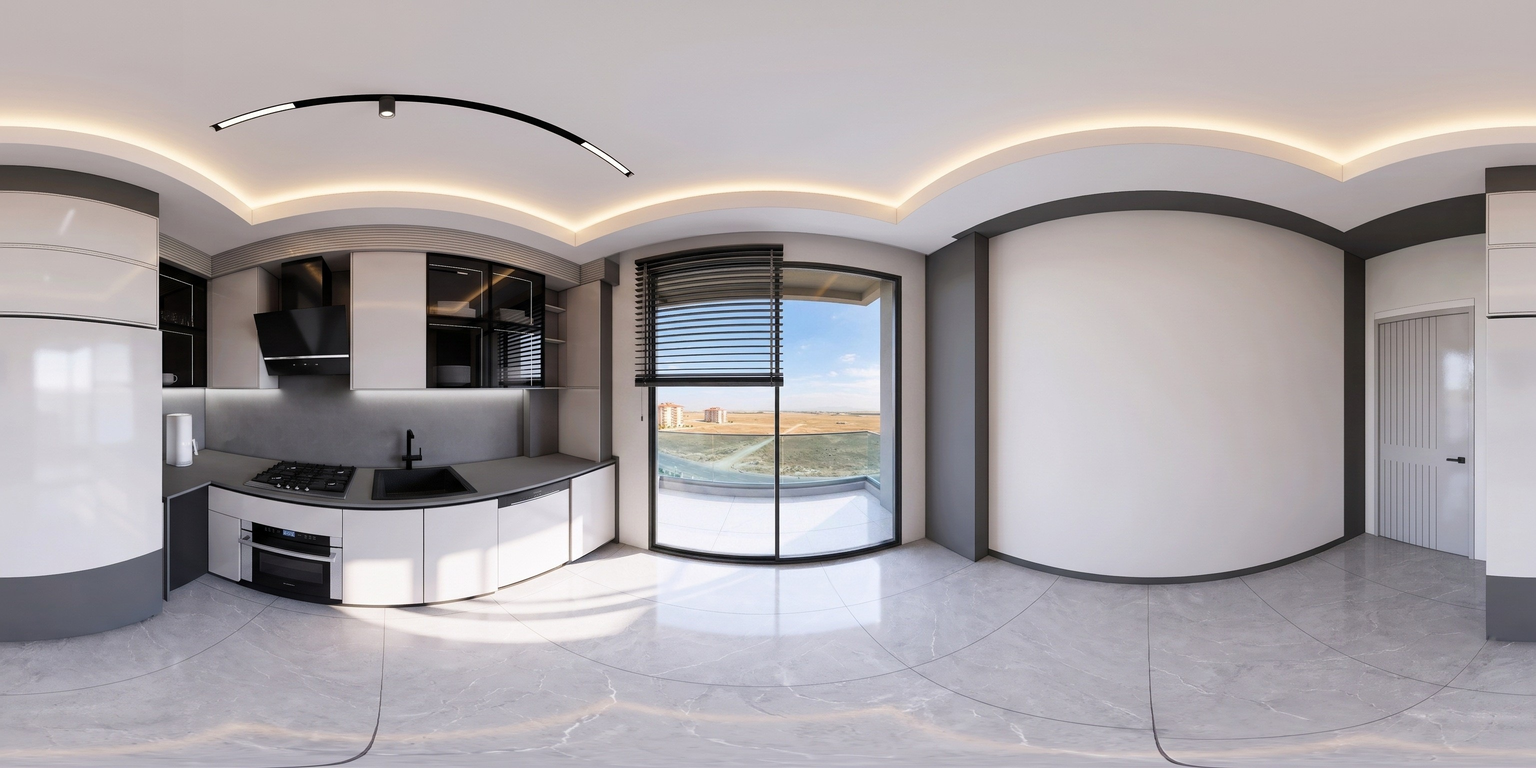
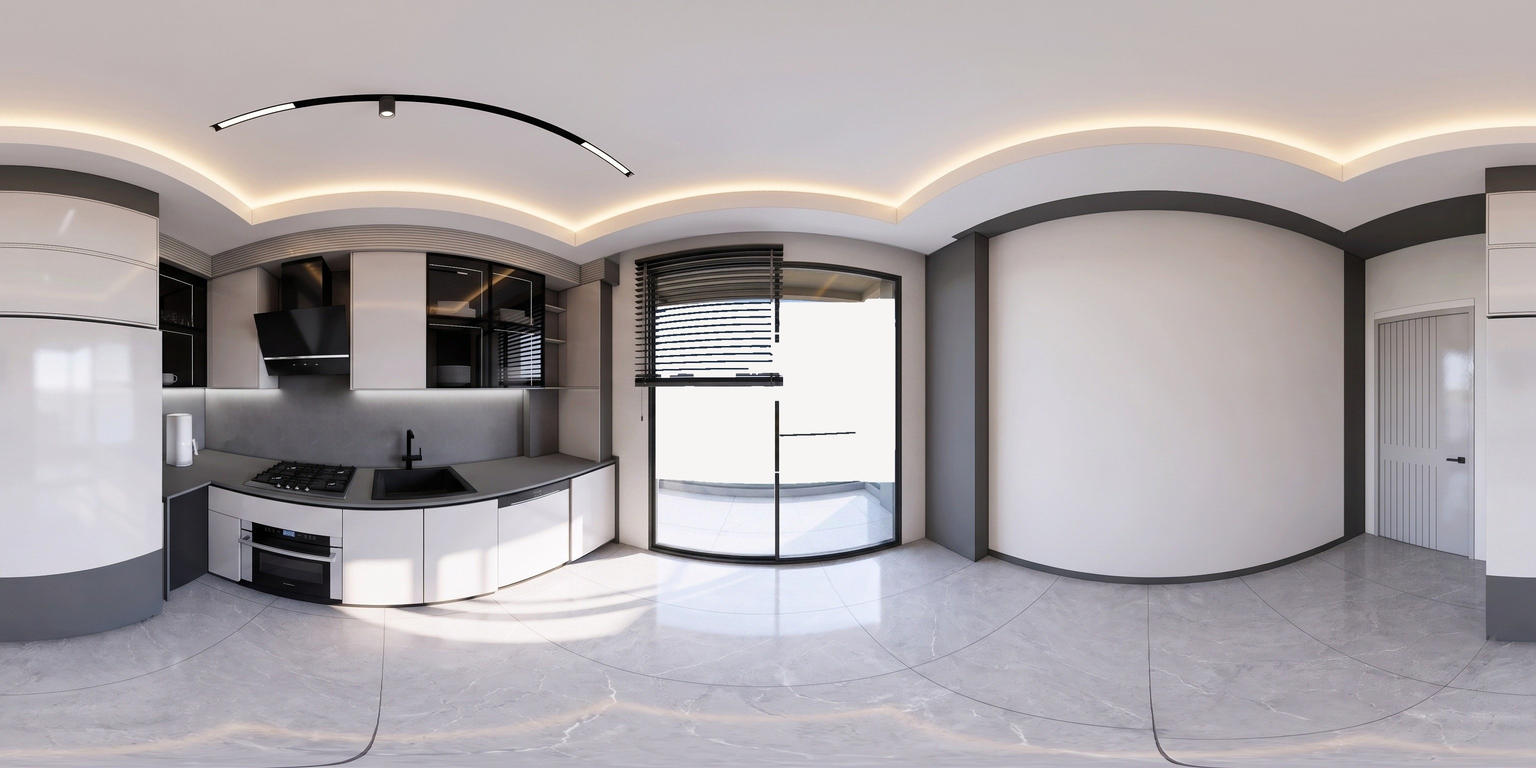
Mutfak pencere kenarlari, kapali balkon masasi, cocuk odasi cami

Changed region(s): [[0.4062, 0.375, 0.5938, 0.6562]]

diff --git a/index.html b/index.html
@@ -3471,7 +3471,7 @@ function gezCiz(lon, sonra) {
     const bd = gez.oda === 'balkon' && gez.daire && !(BALKON_TIPTE[gez.daire.b] || []).includes(gez.daire.no) ? gez.daire : null, yol = bd ? `360/balkon/${bd.b}${bd.k}${bd.no}.jpg` : `360/${gez.set}/${hd360() ? 'hd/' : ''}${gez.oda}.jpg`;
     // pencereler: odanın pencere maskesine dairenin kendi konumundan (kat, cephe) çekilmiş dış manzara bindirilir
     const pd = gez.oda !== 'balkon' && gez.daire && (PENCERE_MASKE[gez.set] || []).includes(gez.oda) ? gez.daire : null;
-    gez.pencere = pd ? { dunya: `360/pencere/${pd.b}${pd.k}${pd.no}.jpg`, maske: `360/${gez.set}/maske_${gez.oda}.png?v=20261119q` } : null;
+    gez.pencere = pd ? { dunya: `360/pencere/${pd.b}${pd.k}${pd.no}.jpg`, maske: `360/${gez.set}/maske_${gez.oda}.png?v=20261119v` } : null;
     gorselAc(yol, bd ? +BALKON_AYNA[bd.b].includes(bd.no) : gez.ayna, `<b>${yer}${gez.tip} m²</b> · ${odaAd}${benzer}`, lon, sonra);
   } else {
     oda.hidden = true; ust.hidden = false;
